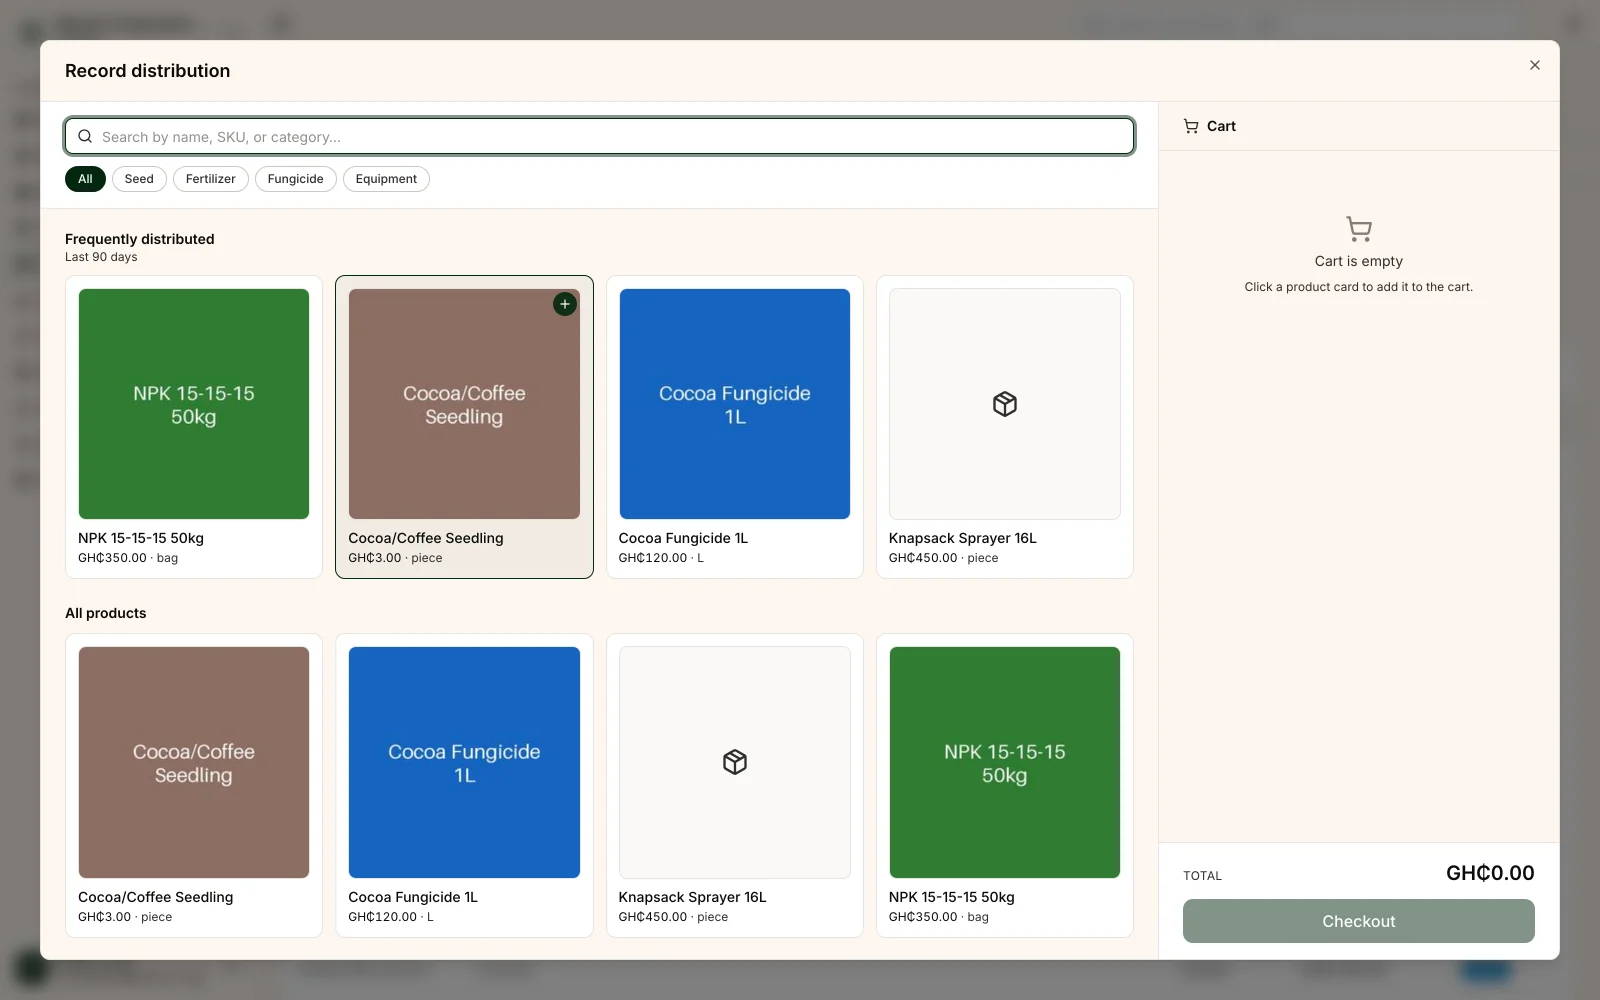
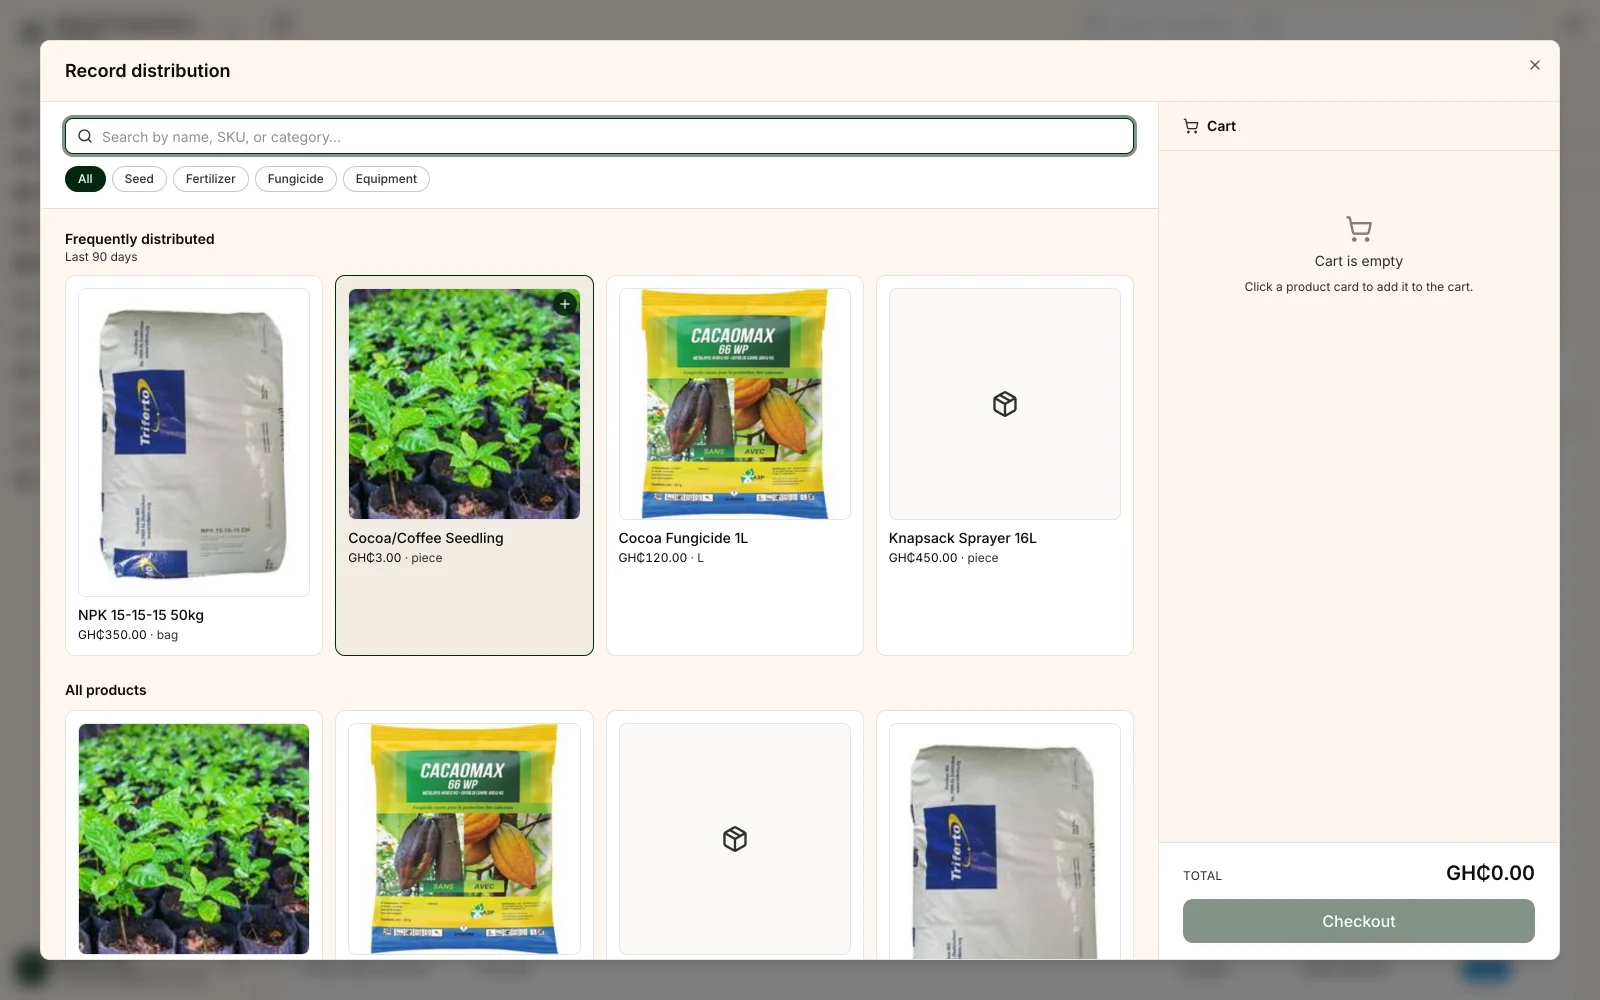
feat(website): real product photos in distribution shot; reposition meta title
- Distribution screenshot recaptured with real seeded product photos
  (NPK fertilizer, cocoa fungicide, coffee/cocoa seedlings) instead of
  placeholder colour tiles.
- Meta/OG/Twitter title -> "Shamba | Digital infrastructure for
  smallholder agriculture".

diff --git a/frontend/app/layout.tsx b/frontend/app/layout.tsx
@@ -17,7 +17,7 @@ const geistMono = Geist_Mono({
 });
 
 export const metadata: Metadata = {
-  title: "Shamba | Putting smallholders on the map",
+  title: "Shamba | Digital infrastructure for smallholder agriculture",
   description: "Shamba is the platform for smallholder organizations. Manage your farmer network from the office and capture farm data offline in the field, with plot mapping, surveys, traceability, and program management in one shared record.",
   keywords: [
     "smallholder farmer CRM",
@@ -51,7 +51,7 @@ export const metadata: Metadata = {
     ],
   },
   openGraph: {
-    title: "Shamba | Putting smallholders on the map",
+    title: "Shamba | Digital infrastructure for smallholder agriculture",
     description: "Manage your farmer network from the office and capture farm data offline in the field. Plot mapping, surveys, traceability, and program management in one shared record.",
     url: "https://shamba.com",
     siteName: "Shamba",
@@ -60,7 +60,7 @@ export const metadata: Metadata = {
   },
   twitter: {
     card: "summary_large_image",
-    title: "Shamba | Putting smallholders on the map",
+    title: "Shamba | Digital infrastructure for smallholder agriculture",
     description: "Manage your farmer network from the office and capture farm data offline in the field.",
   },
   robots: {